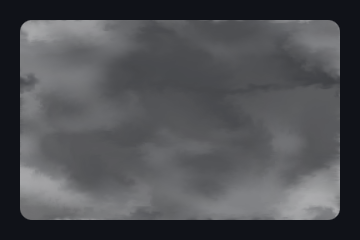
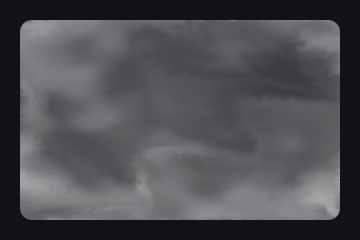
HTML UI p6-stateful-fx: glcore and Vulkan agree on the stateful goldens: fluid-smoke and smoke-fill replay 1 s, particle-flow 0.25 s, fog warms up with 0.05 s steps; particles, fog, fluid-smoke, smoke-fill and particle-flow goldens regenerated

diff --git a/engine/core/htmlui/effects/BuiltinEffectManifests.gen.cpp b/engine/core/htmlui/effects/BuiltinEffectManifests.gen.cpp
@@ -516,6 +516,7 @@ namespace {
          "// @step       project vel\n"
          "// @step       advect-vel vel\n"
          "// @step       advect-dye dye\n"
+         "// @replay     1s\n"
          "// @suggest-for smoke-simulation fluid\n"
          "// @param      colors palette \"#fc83f9 #c21c79\" -- Colours of the smoke from fresh to aged\n"
          "// @param      emit-from position \"50% 100%\" -- The emission source\n"
@@ -572,7 +573,7 @@ namespace {
          "// @state      pd rgba16f 256x256 nearest\n"
          "// @state      dye rgba16f 256x256 linear\n"
          "// @init       seed dye\n"
-         "// @warmup     50 0.1s\n"
+         "// @warmup     50 0.05s\n"
          "// @reseed     seed\n"
          "// @step       force vel\n"
          "// @step       curl vel\n"
@@ -1265,6 +1266,7 @@ namespace {
          "// @step       place place\n"
          "// @step       splat accum scatter place\n"
          "// @step       resolve trail\n"
+         "// @replay     0.25s\n"
          "// @suggest-for dust-flow fluid-particles\n"
          "// @param      count integer 6000 1000 16000 -- Number of drifting particles\n"
          "// @param      force number 1 0 3 -- How hard the pointer's motion pushes the fluid\n"
@@ -1680,6 +1682,7 @@ namespace {
          "// @step       project vel\n"
          "// @step       advect-vel vel\n"
          "// @step       advect-dye dye\n"
+         "// @replay     1s\n"
          "// @suggest-for contained-smoke\n"
          "// @param      colors palette \"#8cf3ff #04a0d6\" -- Colours of the smoke from fresh to aged\n"
          "// @param      emit-from position \"50% 50%\" -- The emission source inside the box\n"
